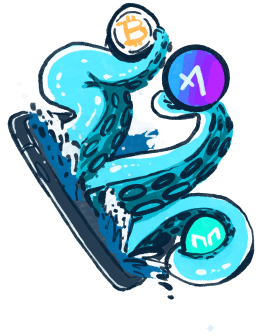
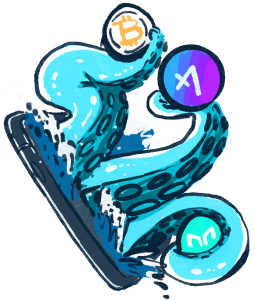
improve layout

diff --git a/src/screens/welcome-flow/wallet-created/WalletCreatedScreen.tsx b/src/screens/welcome-flow/wallet-created/WalletCreatedScreen.tsx
@@ -1,5 +1,5 @@
 import React, { useCallback } from 'react';
-import { Image } from 'react-native';
+import { Image, View } from 'react-native';
 import AppLoading from 'expo-app-loading';
 import { NativeStackScreenProps } from '@react-navigation/native-stack';
 import { useState } from '@hookstate/core';
@@ -10,6 +10,7 @@ import WelcomeContainer from '../WelcomeContainer';
 import MainText from '../MainText';
 import SecondaryText from '../SecondaryText';
 import PrimaryButton from '../../../components/PrimaryButton';
+import styles from './styles';
 import logo from './wallet-created.png';
 import { getSeedPhrase } from '../../../model/wallet';
 import { globalWalletState } from '../../../stores/WalletStore';
@@ -54,29 +55,33 @@ export function WalletCreatedScreen({ navigation }: NativeStackScreenProps<RootS
 
 	return (
 		<WelcomeContainer>
-			<Image source={logo} style={{ width: 300 }} />
-			<MainText>Wallet created!</MainText>
-			<SecondaryText>Your keys your coin. Backup your wallet incase of loss.</SecondaryText>
-			<PrimaryButton
-				onPress={backupOnKeychain}
-				icon={() => (
-					<Entypo
-						name="icloud"
-						size={24}
-						color="white"
-						style={[
-							{
-								transform: [{ scaleX: -1 }]
-							}
-						]}
-					/>
-				)}
-			>
-				Back up to iCloud Keychain
-			</PrimaryButton>
-			<PrimaryButton onPress={backupManually} mode="text">
-				Back up manually
-			</PrimaryButton>
+			<View style={styles.heroImageContainer}>
+				<Image source={logo} style={styles.heroImage} />
+			</View>
+			<View style={styles.content}>
+				<MainText>Wallet created!</MainText>
+				<SecondaryText>Your keys your coin. Backup your wallet incase of loss.</SecondaryText>
+				<PrimaryButton
+					onPress={backupOnKeychain}
+					icon={() => (
+						<Entypo
+							name="icloud"
+							size={24}
+							color="white"
+							style={[
+								{
+									transform: [{ scaleX: -1 }]
+								}
+							]}
+						/>
+					)}
+				>
+					Back up to iCloud Keychain
+				</PrimaryButton>
+				<PrimaryButton onPress={backupManually} mode="text">
+					Back up manually
+				</PrimaryButton>
+			</View>
 		</WelcomeContainer>
 	);
 }

diff --git a/src/screens/welcome-flow/welcome/WelcomeScreen.tsx b/src/screens/welcome-flow/welcome/WelcomeScreen.tsx
@@ -1,5 +1,5 @@
 import React, { useCallback } from 'react';
-import { Image, Text, View } from 'react-native';
+import { Image, Text, View, ImageBackground } from 'react-native';
 import { NativeStackScreenProps } from '@react-navigation/native-stack';
 import { useState } from '@hookstate/core';
 import { RootStackParamList } from '../../../helpers/param-list-type';
@@ -11,6 +11,7 @@ import SecondaryText from '../SecondaryText';
 import PrimaryButton from '../../../components/PrimaryButton';
 import styles from './styles';
 import image from './welcome.png';
+import backgroundTop from './wave-welcome-header.svg';
 
 export default function WelcomeScreen({ navigation }: NativeStackScreenProps<RootStackParamList>) {
 	const walletState = useState(globalWalletState());

diff --git a/src/screens/welcome-flow/wallet-created/styles.tsx b/src/screens/welcome-flow/wallet-created/styles.tsx
@@ -1,3 +1,15 @@
-import { StyleSheet } from "react-native";
+import { Dimensions, StyleSheet } from "react-native";
 
-export default StyleSheet.create({})
+export default StyleSheet.create({
+  content: {
+    paddingLeft: 32,
+    paddingRight: 32
+  },
+  heroImageContainer: {
+    width: 300,
+    alignItems: 'center',
+  },
+  heroImage: {
+    resizeMode: 'cover'
+  }
+});

diff --git a/src/components/PrimaryButton.tsx b/src/components/PrimaryButton.tsx
@@ -22,7 +22,6 @@ const PrimaryButton: React.FC<Props> = ({ children, onPress, mode = 'contained',
 			}}
 			style={{
 				alignSelf: 'stretch',
-				marginHorizontal: 20,
 				padding: 10
 			}}
 			icon={icon}

diff --git a/src/screens/welcome-flow/welcome/styles.tsx b/src/screens/welcome-flow/welcome/styles.tsx
@@ -11,5 +11,8 @@ export default StyleSheet.create({
   },
   textBold: {
     fontWeight: 'bold'
+  },
+  backgroundTop: {
+    flex: 1
   }
 });
